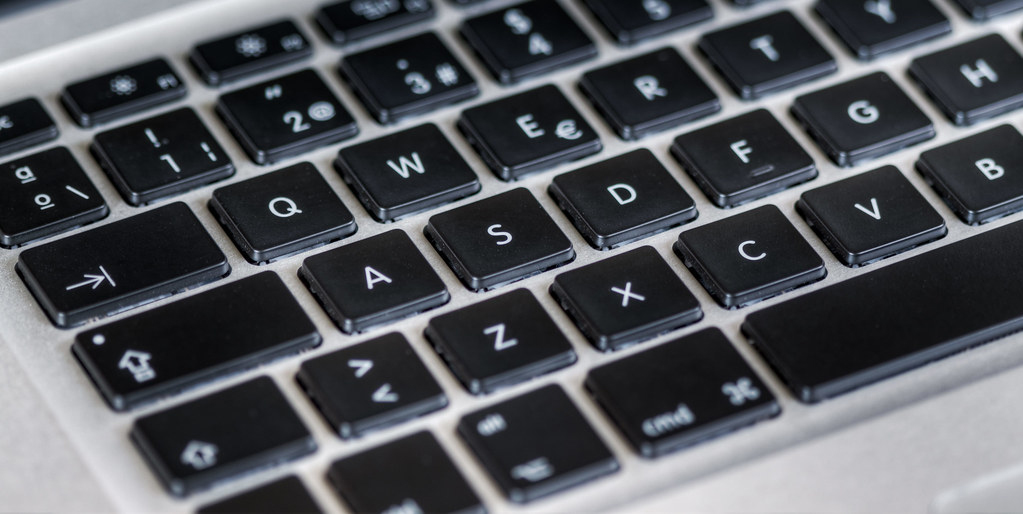
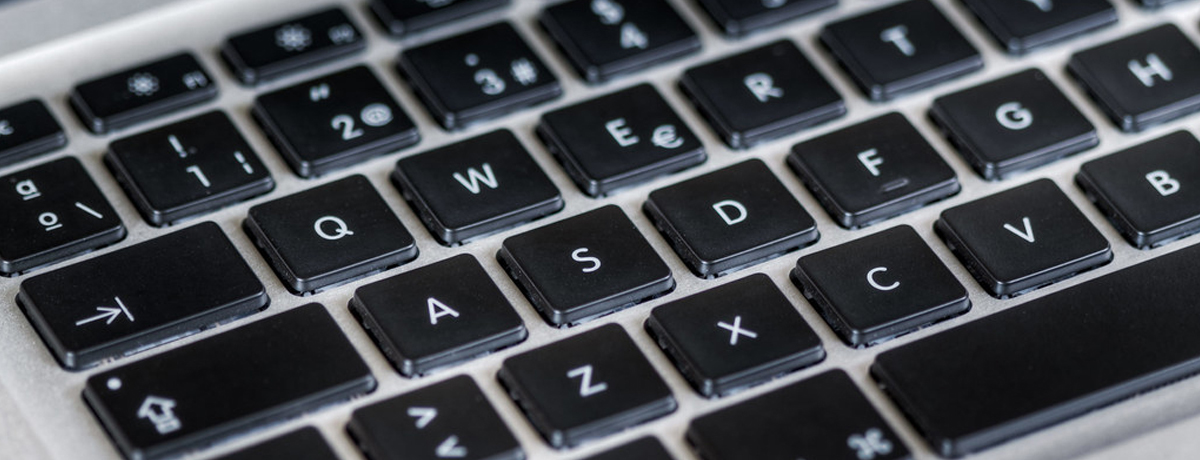
Version 2.06 - Edit to images for specific pages to keep dimensions on all screens, also adjusted spacing for smaller devices between sections on a page for better visuals.

diff --git a/templates/contact.html b/templates/contact.html
@@ -18,14 +18,14 @@
     {% endwith %}
 
     <!--Page image-->
-    <div class="row pb-5">
-        <div class="col-12 page-image-div">
+    <div class="row pb-3 pb-md-5">
+        <div class="col-12">
             <img src="/static/images/contact-image.jpg" class="page-images" alt="Working lady.">
         </div>
     </div>
 
     <!--Contact information and opening hours-->
-    <div class="row pb-5">
+    <div class="row pb-3 pb-md-5">
         <div class="col-12 col-md-6">
             <h3>Contact information</h3>
             <p class="footer-paragraph"><i class="far fa-envelope"></i> info@anropa.net</p>
@@ -42,7 +42,7 @@
     </div>
 
     <!--Contact form-->
-    <div class="row pb-5">
+    <div class="row pb-3 pb-md-5">
         <div class="col-12">
             <h3>Contact form</h3>
             <form method=POST action="{{ url_for('send_email') }}">

diff --git a/templates/employers.html b/templates/employers.html
@@ -10,14 +10,14 @@
     </div>
 
     <!--Page image-->
-    <div class="row pb-5">
-        <div class="col-12 page-image-div">
+    <div class="row pb-3 pb-md-5">
+        <div class="col-12">
             <img src="/static/images/employers-image.jpg" class="page-images" alt="Business meeting.">
         </div>
     </div>
 
     <!--First text area-->
-    <div class="row pb-5">
+    <div class="row pb-3 pb-md-5">
         <div class="col-12">
             <h3>How can we help you finding good work force?</h3>
         </div>
@@ -31,7 +31,7 @@
     </div>
 
     <!--Second text area-->
-    <div class="row pb-5">
+    <div class="row pb-3 pb-md-5">
         <div class="col-12">
             <h3>Leave everything to us.</h3>
         </div>

diff --git a/templates/employees.html b/templates/employees.html
@@ -10,14 +10,14 @@
     </div>
 
     <!--Page image-->
-    <div class="row pb-5">
-        <div class="col-12 page-image-div">
+    <div class="row pb-3 pb-md-5">
+        <div class="col-12">
             <img src="/static/images/employees-image.jpg" class="page-images" alt="Working lady.">
         </div>
     </div>
 
     <!--First text area-->
-    <div class="row pb-5">
+    <div class="row pb-3 pb-md-5">
         <div class="col-12">
             <h3>Looking for a chance to work abroad?</h3>
         </div>
@@ -32,7 +32,7 @@
     </div>
 
     <!--Second text area-->
-    <div class="row pb-5">
+    <div class="row pb-3 pb-md-5">
         <div class="col-12">
             <h3>How to start your new adventure.</h3>
         </div>

diff --git a/static/css/styles.css b/static/css/styles.css
@@ -9,7 +9,7 @@ html {
 }
 
 body {
-    margin: 0 0 771px;
+    margin: 0 0 804px;
     font-family: 'Roboto', sans-serif;
     background-color: #e2e2e2;
 }
@@ -191,11 +191,6 @@ footer {
 }
 
 /* PAGES POSITIONING */
-.page-image-div {
-    max-height: 400px;
-    overflow: hidden;
-}
-
 .page-images {
     width: 100%;
 }
@@ -253,6 +248,12 @@ footer {
 }
 
 /* RESPONSIVE STYLING */
+@media (min-width: 576px) {
+    body {
+        margin: 0 0 771px;
+    }
+}
+
 @media (min-width: 768px) {
     body {
         margin: 0 0 377px;

diff --git a/templates/aboutus.html b/templates/aboutus.html
@@ -10,7 +10,7 @@
     </div>
 
     <!--Intro text-->
-    <div class="row pb-5">
+    <div class="row pb-3 pb-md-5">
         <div class="col-12">
             <h3>Intro</h3>
         </div>
@@ -26,7 +26,7 @@
     </div>
 
     <!--Staff information-->
-    <div class="row pb-5">
+    <div class="row pb-3 pb-md-5">
         <div class="col-12">
             <h3>OUR TEAM</h3>
         </div>
